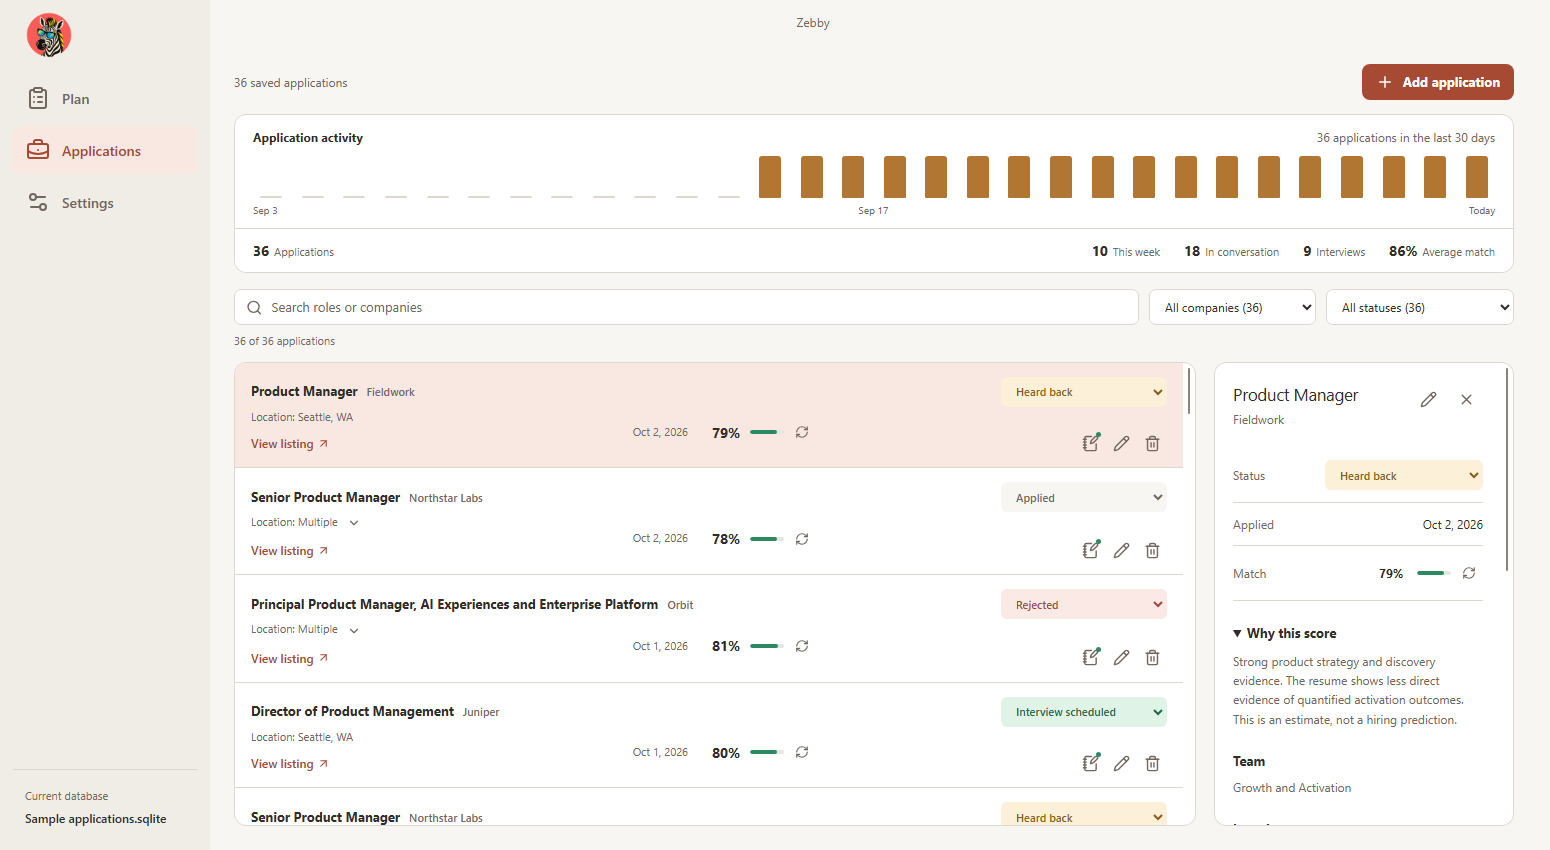
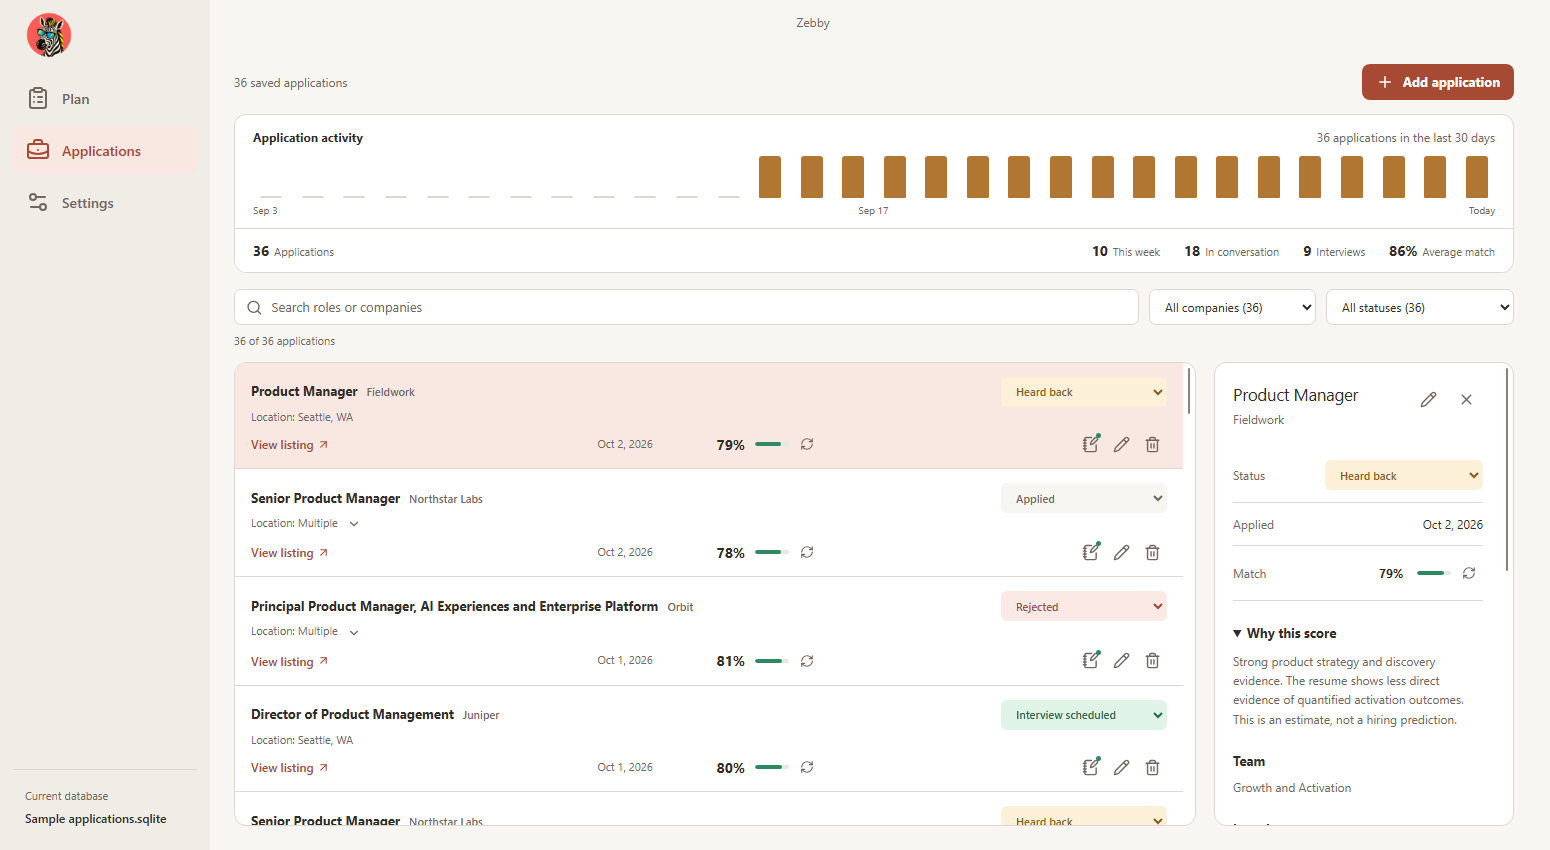
Align application metrics and row actions for Zebby 1.6.3

diff --git a/desktop/renderer/desktop.css b/desktop/renderer/desktop.css
@@ -99,7 +99,7 @@ fieldset { min-width: 0; margin: 0; padding: 0; border: 0; }
 .applications-layout { display: grid; grid-template-columns: minmax(0, 1fr) 300px; gap: 18px; flex: 1; min-height: 0; }
 .applications-layout.compact, .applications-layout.inspector-closed { grid-template-columns: minmax(0, 1fr); }
 .application-list, .application-inspector { min-width: 0; min-height: 0; overflow: auto; border: 1px solid var(--line); border-radius: 12px; background: var(--paper); }
-.application-row { position: relative; isolation: isolate; display: grid; grid-template-columns: minmax(0, 1fr) 218px minmax(0, 1fr); column-gap: 12px; padding: 14px 16px 9px; border-bottom: 1px solid var(--line); }
+.application-row { position: relative; isolation: isolate; display: grid; grid-template-columns: minmax(0, 1fr); padding: 14px 16px 9px; border-bottom: 1px solid var(--line); }
 .application-row:last-child { border-bottom: 0; }
 .application-row:hover:not(.selected) { background: var(--surface-hover); }
 .application-row.selected { background: var(--accent-wash); }
@@ -118,11 +118,11 @@ fieldset { min-width: 0; margin: 0; padding: 0; border: 0; }
 .application-row-meta .role-context { margin: 2px 0 0; font-size: 11px; }
 .application-row-meta .location-summary { flex: 1; }
 .role-cell .location-expanded { margin-top: 4px; }
-.application-row-metrics { grid-column: 2; grid-row: 2 / 4; align-self: center; min-width: 0; display: grid; grid-template-columns: 88px minmax(0, 1fr); align-items: center; gap: 24px; }
-.application-applied-date { color: var(--ink-soft); font-size: 11px; font-variant-numeric: tabular-nums; text-align: right; white-space: nowrap; }
-.application-row-meta:has(.location-expanded:not([hidden])) { grid-column: 1 / -1; }
-.application-row:has(.location-expanded:not([hidden])) .application-row-metrics { grid-row: 3; }
-.application-row-foot { grid-column: 1 / -1; grid-row: 3; display: flex; align-items: center; justify-content: space-between; min-height: 30px; margin-top: 3px; gap: 12px; }
+.application-row-metrics { min-width: 0; display: flex; align-items: center; justify-content: center; gap: 64px; }
+.application-applied-date { color: var(--ink-soft); font-size: 11px; font-variant-numeric: tabular-nums; white-space: nowrap; }
+.application-row-foot { grid-column: 1; grid-row: 3; display: grid; grid-template-columns: minmax(0, 1fr) max-content minmax(0, 1fr); align-items: center; min-height: 30px; margin-top: 4px; column-gap: 16px; }
+.application-row-foot > :first-child { justify-self: start; }
+.application-row-foot > .row-actions { justify-self: end; }
 .listing-link { display: inline-flex; align-items: center; gap: 3px; color: var(--accent); font-size: 12px; font-weight: 600; text-decoration: none; }
 .listing-link:hover { text-decoration: underline; }
 .application-row .row-actions button { width: 30px; height: 30px; }
@@ -334,12 +334,9 @@ fieldset { min-width: 0; margin: 0; padding: 0; border: 0; }
   .filter-field select { max-width: none; width: 100%; }
 }
 @container (max-width: 440px) {
-  .application-row { grid-template-columns: minmax(0, 1fr); }
-  .application-row-main { grid-column: 1; }
-  .application-row-meta, .application-row-meta:has(.location-expanded:not([hidden])) { grid-column: 1; grid-row: 3; }
-  .application-row .application-row-metrics, .application-row:has(.location-expanded:not([hidden])) .application-row-metrics { grid-column: 1; grid-row: 2; width: 218px; justify-self: center; }
-  .application-row-foot { grid-column: 1; grid-row: 4; }
-  .application-inline-details { grid-column: 1; grid-row: 5; }
+  .application-row-foot { grid-template-columns: minmax(0, 1fr) auto; gap: 4px 16px; }
+  .application-row-foot > :first-child { grid-column: 1 / -1; }
+  .application-row-metrics { justify-self: center; gap: 32px; }
 }
 @media (max-width: 1150px) { .plan-layout { grid-template-columns: 176px minmax(0, 1fr); gap: 16px; } .settings-page { padding-inline: 28px; } }
 @media (max-width: 1000px) {

diff --git a/desktop/renderer/ApplicationDashboard.tsx b/desktop/renderer/ApplicationDashboard.tsx
@@ -913,14 +913,14 @@ export default function ApplicationDashboard() {
                   <div className="application-row-meta role-cell">
                     <LocationSummary value={item.locations} />
                   </div>
-                  <div className="application-row-metrics">
-                    <time className="application-applied-date" dateTime={item.appliedDate || undefined} title="Date applied">
-                      <span className="visually-hidden">Applied </span>{formatDate(item.appliedDate)}
-                    </time>
-                    {matchControl(item)}
-                  </div>
                   <div className="application-row-foot">{item.listingUrl ? <a className="listing-link" href={item.listingUrl} target="_blank" rel="noopener noreferrer">
                     View listing <ArrowUpRight size={13} aria-hidden="true" /></a> : <span />}
+                    <div className="application-row-metrics">
+                      <time className="application-applied-date" dateTime={item.appliedDate || undefined} title="Date applied">
+                        <span className="visually-hidden">Applied </span>{formatDate(item.appliedDate)}
+                      </time>
+                      {matchControl(item)}
+                    </div>
                     {rowActions(item)}</div>
                   {compact && selected?.id === item.id && detailsOpen && <div className="application-inline-details" id={`application-details-${item.id}`}>
                     {inspector(item)}</div>}

diff --git a/.impeccable/surfaces/applications.md b/.impeccable/surfaces/applications.md
@@ -44,6 +44,16 @@ The visible X, named Close details, closes the inspector, preserves selection, g
 
 Date applied comes first, then match percentage and its existing track and controls, side by side on one centered line with a 24px gap. Headings keep their full measure, and closing the inspector preserves centering. Expanded locations receive full width with metrics below when space permits; compact inline details span the row. Extreme narrow containers give the intact date/match group its own centered line.
 
+The user subsequently rejected this 1.6.2 layout because the visible metrics did not appear centered, the date/match spacing was too small, and Notes, Edit and Delete did not share the line. The current 1.6.3 footer contract supersedes it.
+
+## 1.6.3 footer contract
+
+The visible applied date comes first, followed by the existing match percentage, track and controls. The pair uses its actual content width and a generous 64px gap, centered in a shared footer with equal side columns. View listing sits at the left; Notes, Edit and Delete align at the right on that same horizontal line. Role and company retain the full top-line width, and closing or reopening the inspector preserves the arrangement.
+
+Expanded locations stay above the footer and compact inline details below it. The reviewed wide, compact and 200% scaling states retain the centered pair and 64px gap. At extreme container widths below 440px, View listing moves to its own line and the date/match gap reduces to 32px while metrics and actions remain alongside one another. This fallback centers the pair within its metrics column rather than across the entire row; it is present in source but was not separately visually certified by the current capture set.
+
+This correction preserves Ember light and dark appearance, native fonts, the flat ledger, zebra identity, independent row controls, analysis behavior and schema 10.
+
 ## Role access and form
 
 The list and 300px inspector scroll independently at normal heights, separated by an 18px gap. The role selector has keyboard focus and selected/expanded state. Match includes a percentage, short track, and refresh action; status remains a native tinted select with a visible 2px focus outline. The inspector contains status, date, score/Why, team, locations, resume, and Notes as available.
@@ -62,7 +72,7 @@ The toggle has action labels, expanded state, tooltips, and Enter or Space activ
 
 Windows scroll containers reserve a stable 12px gutter. The resting 2px thumb widens to 8px on hover, focus, or scrolling. Mac keeps native system scrollers. Physical macOS behavior has not been manually reviewed.
 
-Version 1.6.2 keeps schema 10 and the existing SQLite and legacy migration behavior. Applications, plans, Notes, resumes, scores, and previous backups remain intact. Native database dialogs await pending writes and reject switching while changes are unsaved. Cloud-file changes are detected before saving; quit and wait for sync before moving between computers. See [the guide](../../docs/guide.md).
+Version 1.6.3 keeps schema 10 and the existing SQLite and legacy migration behavior. Applications, plans, Notes, resumes, scores, and previous backups remain intact. Native database dialogs await pending writes and reject switching while changes are unsaved. Cloud-file changes are detected before saving; quit and wait for sync before moving between computers. See [the guide](../../docs/guide.md).
 
 Available updates remain at the sidebar's bottom in either navigation state. Update download and verification, restart guards, and installer behavior retain their existing contracts. App-local New, Save, Search, and native text Undo have no visible shortcut list or added zoom controls.
 
@@ -95,4 +105,13 @@ The scoped finish review, recorded internally in work/centered-row-metrics/finis
 
 Supplied evidence reports passing build, typecheck, lint and complete headless renderer checks, twelve native interaction checks, ten native captures and zero errors. The sole layout scan has no findings. The reviewer inspected twelve valid frames, including two Mac renderer simulations made on Windows. These checks were not rerun by the documenter. Physical Mac rendering remains outside local evidence; installer CI is a separate release gate. Version 1.6.2 preserves schema 10.
 
-The current public screenshot uses work/centered-row-metrics/round-1/captures/applications-light.png, an isolated hidden native Windows Electron capture of synthetic data from Zebby 1.6.2, 1550 by 850. Its origin is embedded in docs/screenshots/applications.png; the handoff verifies decoded pixel identity, origin readback and provenance. Providers and clipboard are mocked; no real user profile, database, resume, key or model was used.
+The 1.6.2 public screenshot used work/centered-row-metrics/round-1/captures/applications-light.png, an isolated hidden native Windows Electron capture of synthetic data from Zebby 1.6.2, 1550 by 850. Its origin was embedded in docs/screenshots/applications.png; that handoff verified decoded pixel identity, origin readback and provenance. Providers and clipboard were mocked; no real user profile, database, resume, key or model was used.
+### 1.6.3 footer alignment
+
+The fresh independent finish review, recorded internally in work/row-metrics-alignment/finish-review.md, returned ship with no material fixes for the corrected visible date/match centering, wider spacing, shared action line and immediate layout/control regressions. It inspected twelve valid current frames after the user rejected the preceding 1.6.2 result. This review does not certify the whole app or assign a new health score.
+
+Supplied evidence reports passing build, typecheck, lint and complete headless Windows and Mac renderer checks. The hidden native Windows run records twelve checks, ten captures and zero errors; the scoped layout scan reports zero findings. Geometry checks measure visible date text and match bounds, their centering and separation, alignment of all three action buttons, listing/location clearance and horizontal overflow across pane changes, expanded locations, compact rows, busy analysis and 200% scaling. These checks were not rerun by the documenter.
+
+The current public screenshot uses work/row-metrics-alignment/round-1/captures/applications-light.png, an isolated hidden native Windows Electron capture of synthetic records from Zebby 1.6.3, 1550 by 850. Its exact source origin is embedded in docs/screenshots/applications.png; this handoff verifies decoded pixel identity, origin readback and provenance. Providers and clipboard are mocked; no real database, profile, resume, credential or model was used.
+
+The two Mac renderer simulations are current 1.6.3 frames made on Windows, despite their historical qa-output/renderer-1.5.0 directory name. Physical Mac font, scroller and native-window behavior remain outside local evidence; physical Mac and packaged installer checks are separate release CI gates. Version 1.6.3 preserves schema 10. Context, doctor and detectors were not rerun for this documentation handoff.

diff --git a/docs/guide.md b/docs/guide.md
@@ -80,7 +80,7 @@ The circular zebra icon is shared by the desktop app, sidebar, and installers. C
 
 All application details can be left blank. The date starts at today and the status starts at Applied, but you can clear the date and save without a listing, score, or resume. A slim daily bar chart shows application volume over the last 30 days, above total applications, applications this week, roles in conversation, interviews, and average match strength among scored applications. Hover or focus a bar to see its date and count; arrow keys move between days. You can search roles, filter by company or status with counts, edit applications, change a status in place, add notes, and delete a mistaken entry after confirmation. Multiple locations appear in a compact summary with a chevron that expands individual locations.
 
-Each row centers the applied date first and match percentage second on one line, with space between them. Click empty space in a role's row to select it and open its details in the persistent inspector on wide layouts. The list and inspector scroll independently. Select the **X** (**Close details**) to close the inspector, give its width to the list, and return keyboard focus to the selected role. Clicking the same or another role reopens details. Individual row controls keep their own actions. In smaller layouts, the details expand inside the selected row through its inline disclosure. Short windows and higher scaling use page scrolling to keep roles and their controls reachable. The complete New Application form keeps every optional field.
+Each row centers the applied date first and match percentage second with wider spacing; Notes, Edit and Delete share that line. Click empty space in a role's row to select it and open its details in the persistent inspector on wide layouts. The list and inspector scroll independently. Select the **X** (**Close details**) to close the inspector, give its width to the list, and return keyboard focus to the selected role. Clicking the same or another role reopens details. Individual row controls keep their own actions. In smaller layouts, the details expand inside the selected row through its inline disclosure. Short windows and higher scaling use page scrolling to keep roles and their controls reachable. The complete New Application form keeps every optional field.
 
 Resumes are uploaded once and can be reused for later applications. PDF, DOCX, and DOC files up to 10 MB are supported.
 

diff --git a/DESIGN.md b/DESIGN.md
@@ -449,7 +449,7 @@ Accepted activation keeps the existing brief offline Lottie animation without de
 
 ### Role inspector and Plan document
 
-Application rows center the applied date first and match second on one horizontal line, with a visible gap (24px). Closing the inspector preserves this alignment. Expanded locations and inline details span the row; extreme narrow containers give the intact metrics group its own centered line.
+Application rows center the visible applied date followed by the match group in a shared footer, using their actual content width and generous separation (64px). The listing link sits at the left, and Notes, Edit and Delete align on the same horizontal line at the right. Closing the inspector preserves the pair's centering. Expanded locations stay above the footer and compact inline details below it. At extreme container widths below 440px, the listing link moves to its own line and the date/match gap reduces to 32px while metrics and actions remain alongside one another.
 
 Blank space in an application row activates its native selector and opens the selected role in the persistent inspector. The visible X closes the inspector, releases its width to the list, and returns focus to the selected selector; selecting the same or another role reopens it. Individual row controls retain their own actions, and smaller layouts retain inline disclosure. Inference temporarily protects affected sources and Cancel reaches the provider before persistence; a committed or finished result cannot be acknowledged as cancelled.
 

diff --git a/docs/releases/v1.6.3.md b/docs/releases/v1.6.3.md
@@ -1,0 +1,7 @@
+# Zebby 1.6.3
+
+- Centered the applied date and match score with more space between them.
+- Aligned Notes, Edit and Delete with the date and match on one row.
+- Kept the layout balanced when details are open, closed, or expanded inline.
+
+Your database, resumes, settings and downloaded models are preserved.
